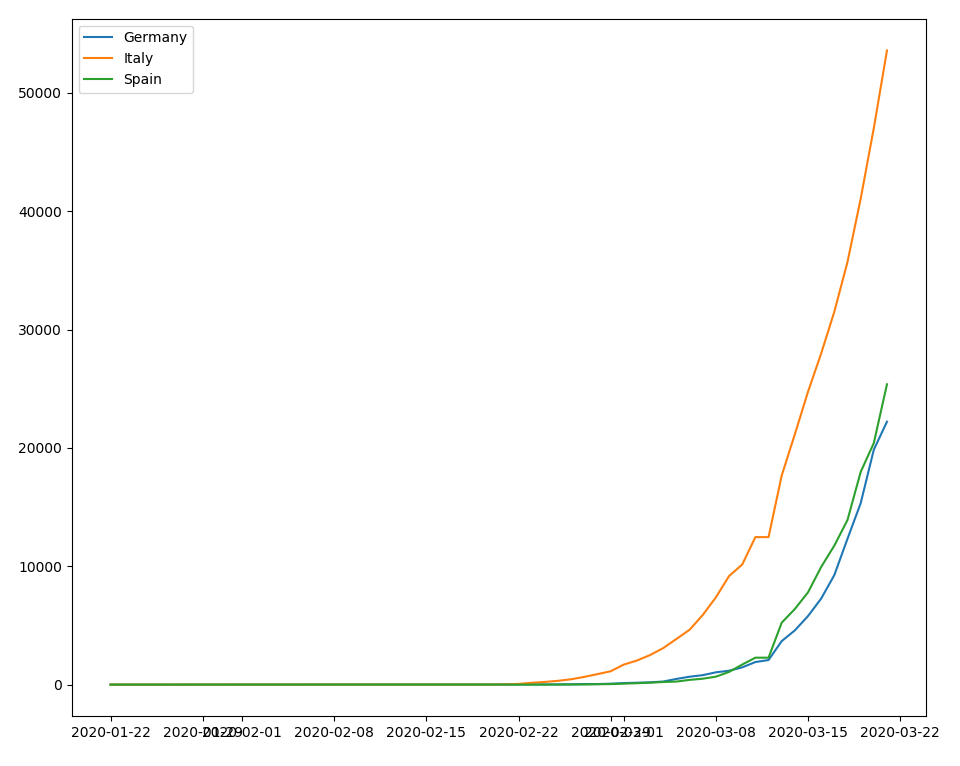
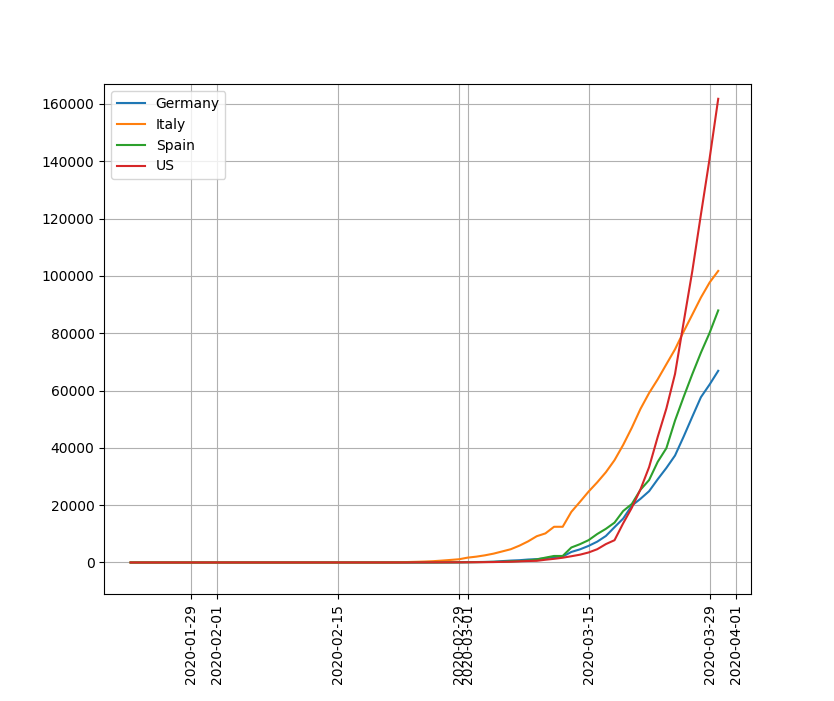
Update

diff --git a/main.py b/main.py
@@ -6,12 +6,12 @@ countries = []
 dates = []
 
 # Change to Recovered / Deaths / Confirmed
-with open("time_series_19-covid-Confirmed.csv", "r") as csvfile:
+with open("time_series_covid19_deaths_global.csv", "r") as csvfile:
     data = csv.reader(csvfile, delimiter=",")
     dates = [datetime.strptime(date, '%m/%d/%y') for date in next(data)[4:]]
     for country in data:
         # Add countries you want to visualize
-        if country[1] in ["Germany", "Italy", "Spain"]:
+        if country[1] in ["Germany", "Italy", "Spain", "US"]:
             numbers_in_int = [int(number) for number in country[4:]]
             countries.append((country[1], numbers_in_int))
 
@@ -20,4 +20,6 @@ for country in countries:
     plt.plot(dates, country[1], label=country[0])
 
 plt.legend(loc='best')
+plt.xticks(rotation=90)
+plt.grid()
 plt.show()
